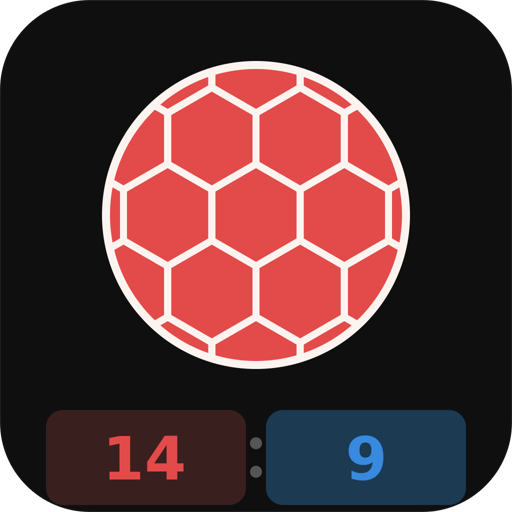
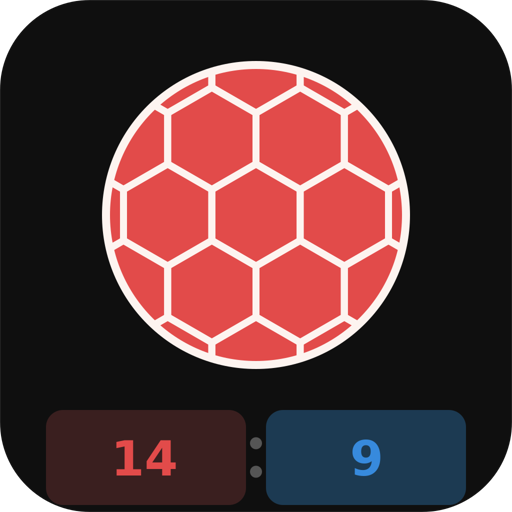
Shrink score box text so digits don't touch the border
Reduced icon score-box font size from 120 to 96, giving clear
margin between the digits and the rounded-rect edges. Bumps
APP_VERSION to 1.8.4.

Changed region(s): [[0.1875, 0.8438, 0.375, 0.9375], [0.6562, 0.8438, 0.75, 0.9375]]

diff --git a/index.html b/index.html
@@ -248,7 +248,7 @@ const STORAGE_KEY = 'handball_v3';
 // Bump this (semver: MAJOR.MINOR.PATCH) on every deploy that should prompt installed/offline
 // users to update — it's what makes the Service Worker byte-differ from the previous one and
 // trigger the update flow.
-const APP_VERSION = '1.8.3';
+const APP_VERSION = '1.8.4';
 const APP_URL = 'https://stefanriese.github.io/Handball_Scoreboard/';
 
 let state = {
